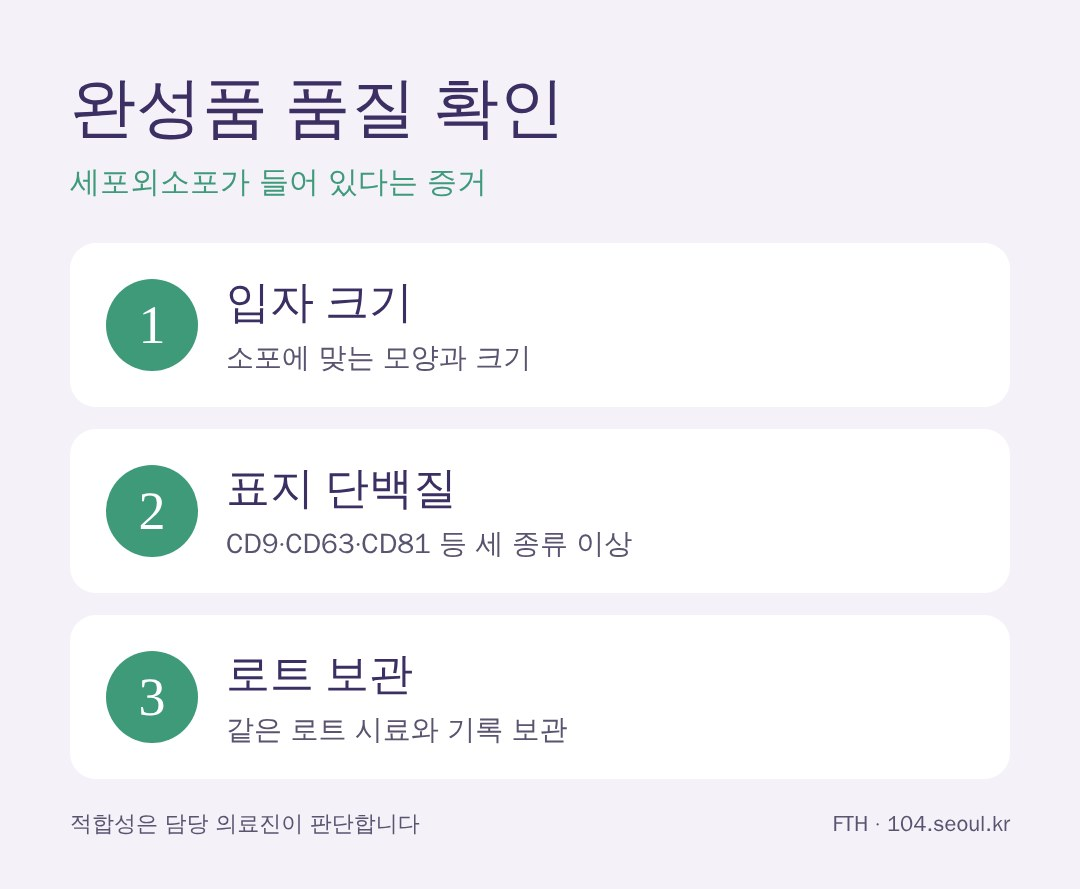
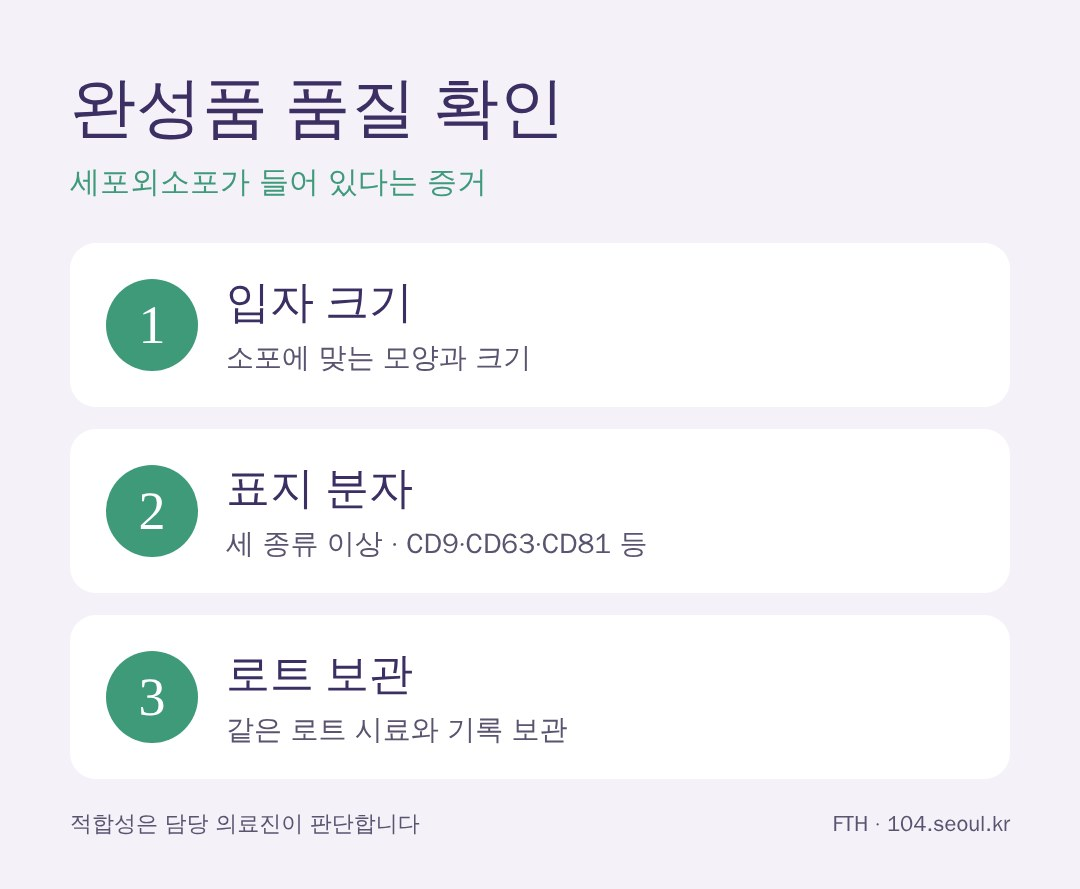
s104 2026-11-26-am 검수 지적 반영(사실 표현 2곳·FAQ·그림 문구)
Claude-Session: https://claude.ai/code/session_01X1V3gKXKoWFiSLxrLdFYPN

Changed region(s): [[0.2139, 0.5163, 0.6111, 0.6378]]

diff --git a/posts/2026-11-26-am/styled.html b/posts/2026-11-26-am/styled.html
@@ -6,13 +6,13 @@
 
 <p style="margin:22px 0 30px;padding:20px 22px;background:#f1f7f6;border-left:5px solid #2a8c82;border-radius:14px;font-size:17.5px;line-height:1.8"><b style="color:#1d3b53">줄기세포 상청액 품질 관리</b>는 줄기세포를 키운 뒤 세포를 걷어 낸 액체에 무엇이 들어 있고, 섞이면 안 되는 것이 없는지를 원료부터 완성품까지 확인하는 일입니다. 일본 후생노동성은 2024년 7월 31일 안내문에서 상청액이나 엑소좀 등을 주성분으로 효과와 안전성이 확인되어 승인을 받은 의약품은 해외를 포함해 아직 없다고 밝히고, 일본재생의료학회가 2024년 4월 30일 낸 지침을 참고해 품질과 위험을 관리하라고 당부했습니다. 이 지침이 꼽은 확인 항목을 쉬운 말로 정리했습니다.</p>
 <ul>
-<li>법의 자리: 세포가 없는 것이 분명한 상청액은 일본 재생의료법 대상이 아님</li>
+<li>법 적용: 세포가 없는 것이 분명한 상청액은 일본 재생의료법 대상이 아님</li>
 <li>제조 관리: 무균 작업, 동물 유래 성분을 뺀 배지, 같은 로트 보관</li>
 <li>완성품 확인: 소포 입자의 크기와 표지 단백질(CD9·CD63·CD81 등)</li>
 </ul>
 
 <h2 style="margin:46px 0 16px;padding:0 0 10px 14px;border-left:6px solid #2a8c82;border-bottom:1px solid #e3eaee;font-size:22px;line-height:1.45;font-weight:700;color:#1d3b53">줄기세포 상청액은 어떻게 만들어지나요?</h2>
-<p style="margin:0 0 18px">줄기세포를 배양 용기에서 키우면 세포는 단백질과 작은 주머니 모양의 세포외소포를 바깥으로 내보냅니다. 세포를 걷어 내고 남은 이 액체가 상청액이고, 세포외소포 가운데 하나가 엑소좀입니다. 일본재생의료학회 지침은 세포외소포에 조직 재생을 돕는 성장 인자와 세포 사이의 신호 물질이 들어 있다고 설명하며, 이 분야를 앞으로 쓰임이 넓어질 수 있는 발전 가능성이 큰 분야로 봅니다. 다만 살아 있는 세포에서 나온 물질이라 키우는 조건에 따라 내용물이 쉽게 달라지므로, 만드는 과정 자체를 꼼꼼히 관리해야 한다고 강조합니다.</p>
+<p style="margin:0 0 18px">줄기세포를 배양 용기에서 키우면 세포는 단백질과 작은 주머니 모양의 세포외소포를 바깥으로 내보냅니다. 세포를 걷어 내고 남은 이 액체가 상청액이고, 세포외소포 가운데 하나가 엑소좀입니다. 일본재생의료학회 지침은 세포외소포에 조직 재생을 돕는 성장 인자와 세포 사이의 신호 물질이 들어 있다고 설명하며, 앞으로 쓰임이 넓어질 수 있어 발전이 기대된다고 봅니다. 다만 살아 있는 세포에서 나온 물질이라 키우는 조건에 따라 내용물이 쉽게 달라지므로, 만드는 과정 자체를 꼼꼼히 관리해야 한다고 강조합니다.</p>
 
 <img src="https://raw.githubusercontent.com/daegakim/blog.104.seoul.kr/main/images/s104-2026-11-26-am-info.jpg" alt="줄기세포 상청액이 만들어지는 순서 그림: 세포 배양, 세포가 단백질과 세포외소포를 내보냄, 세포를 걷어 낸 액체가 상청액" style="display:block;width:100%;max-width:100%;height:auto;margin:26px auto;border-radius:18px;box-shadow:0 6px 20px rgba(30,50,70,.10)">
 
@@ -31,22 +31,22 @@
 <img src="https://raw.githubusercontent.com/daegakim/blog.104.seoul.kr/main/images/s104-2026-11-26-am-info2.jpg" alt="일본 재생의료법과 상청액 그림: 세포가 없는 것이 분명하면 대상 아님, 2025년 5월 31일 개정법 시행 뒤 2년을 목표로 적용 방식 검토" style="display:block;width:100%;max-width:100%;height:auto;margin:26px auto;border-radius:18px;box-shadow:0 6px 20px rgba(30,50,70,.10)">
 
 <h2 style="margin:46px 0 16px;padding:0 0 10px 14px;border-left:6px solid #2a8c82;border-bottom:1px solid #e3eaee;font-size:22px;line-height:1.45;font-weight:700;color:#1d3b53">제조 과정에서는 어떤 위험을 관리하나요?</h2>
-<p style="margin:0 0 18px">학회 지침은 제조 단계의 위험으로 원료에서 들어오는 바이러스·세균·곰팡이, 알레르기를 일으킬 수 있는 다른 물질, 공정 자재에서 나온 미세 입자, 제조 묶음(배치)마다 달라지는 품질, 보관 중 품질 저하, 자기 세포 제품끼리 뒤바뀌는 사고를 꼽았습니다. 상청액은 완성 뒤에 바이러스를 없애거나 깊이 정제하기 어려워서 원료 단계부터 무균 작업과 섞임 방지를 이어 가야 합니다. 배지는 동물 유래 성분이 없는 것을 쓰라고 권하는데, 소 태아 혈청을 넣으면 소에서 나온 소포가 섞여 뜻하지 않은 작용을 할 수 있기 때문입니다. 제조와 품질 관리는 재생의료 제공 기준이나 재생의료 제품의 제조 기준에 준해서 하라고 적었습니다.</p>
+<p style="margin:0 0 18px">학회 지침은 제조 단계의 위험으로 원료에서 들어오는 바이러스·세균·곰팡이, 알레르기나 거부 반응을 일으킬 수 있는 다른 물질, 공정 자재에서 나온 미세 입자, 제조 묶음(배치)마다 달라지는 품질, 보관 중 품질 저하, 자기 세포 제품끼리 섞이거나 뒤바뀌는 사고를 꼽았습니다. 상청액은 제조 과정에서 고도로 정제하거나 바이러스를 없애기 어려워서 원료 단계부터 무균 작업과 섞임 방지를 이어 가야 합니다. 배지는 동물 유래 성분이 없는 것을 쓰라고 권하는데, 소 태아 혈청을 넣으면 소에서 나온 소포가 섞여 뜻하지 않은 작용을 할 수 있기 때문입니다. 제조와 품질 관리는 재생의료 제공 기준이나 재생의료 제품의 품질·제조 관리 기준에 준해서 하라고 적었습니다.</p>
 
 <img src="https://raw.githubusercontent.com/daegakim/blog.104.seoul.kr/main/images/s104-2026-11-26-am-info3.jpg" alt="상청액 제조 단계 위험 관리 그림: 무균 작업, 동물 유래 성분 없는 배지, 배치마다 품질 확인, 보관 중 품질 저하 방지" style="display:block;width:100%;max-width:100%;height:auto;margin:26px auto;border-radius:18px;box-shadow:0 6px 20px rgba(30,50,70,.10)">
 
 <h2 style="margin:46px 0 16px;padding:0 0 10px 14px;border-left:6px solid #2a8c82;border-bottom:1px solid #e3eaee;font-size:22px;line-height:1.45;font-weight:700;color:#1d3b53">완성된 상청액은 무엇으로 품질을 확인하나요?</h2>
 <p style="margin:0 0 18px">세포외소포가 실제로 들어 있다는 증거 두 가지가 기본입니다. 하나는 소포에 맞는 모양과 크기의 입자가 있다는 것이고, 다른 하나는 소포 표지 단백질이 있다는 것입니다. 지침은 표지 단백질로 CD9·CD63·CD81 같은 테트라스파닌을 예로 들고, 국제세포외소포학회(ISEV)의 권고에 따라 소포 관련 분자를 적어도 세 종류 확인하라고 소개합니다. 또 문제가 생겼을 때 원인을 찾을 수 있도록 실제 투여한 것과 같은 로트의 시료와 제조·투여 기록을 보관하라고 권합니다.</p>
 
-<img src="https://raw.githubusercontent.com/daegakim/blog.104.seoul.kr/main/images/s104-2026-11-26-am-info4.jpg" alt="완성된 상청액 품질 확인 그림: 소포 입자 크기 확인, 표지 단백질 CD9·CD63·CD81 등 세 종류 이상, 같은 로트 시료와 기록 보관" style="display:block;width:100%;max-width:100%;height:auto;margin:26px auto;border-radius:18px;box-shadow:0 6px 20px rgba(30,50,70,.10)">
+<img src="https://raw.githubusercontent.com/daegakim/blog.104.seoul.kr/main/images/s104-2026-11-26-am-info4.jpg" alt="완성된 상청액 품질 확인 그림: 소포 입자 크기 확인, 표지 분자 세 종류 이상(CD9·CD63·CD81 등), 같은 로트 시료와 기록 보관" style="display:block;width:100%;max-width:100%;height:auto;margin:26px auto;border-radius:18px;box-shadow:0 6px 20px rgba(30,50,70,.10)">
 
 <h2 style="margin:46px 0 16px;padding:0 0 10px 14px;border-left:6px solid #2a8c82;border-bottom:1px solid #e3eaee;font-size:22px;line-height:1.45;font-weight:700;color:#1d3b53">상청액 치료를 알아볼 때 무엇을 물어보면 좋을까요?</h2>
-<p style="margin:0 0 18px">어떤 세포에서 얻었는지, 배지에 동물 유래 성분이 들어가는지, 무균 검사와 소포 확인을 했는지, 같은 로트 시료를 보관하는지 물어보세요. 승인 의약품이 아니라는 점도 설명 문서에서 함께 확인하면 정보를 정확히 비교할 수 있습니다. 내 상태에 맞는지는 담당 의료진이 판단합니다.</p>
+<p style="margin:0 0 18px">어떤 세포에서 얻었는지, 배지에 동물 유래 성분이 들어가는지, 무균 검사와 소포 확인을 했는지, 같은 로트 시료를 보관하는지 물어보세요. 승인 의약품이 아니라는 점이 설명 문서에 적혀 있는지도 확인하세요. 내 상태에 맞는지는 담당 의료진이 판단합니다.</p>
 
 <h2 style="margin:46px 0 16px;padding:0 0 10px 14px;border-left:6px solid #2a8c82;border-bottom:1px solid #e3eaee;font-size:22px;line-height:1.45;font-weight:700;color:#1d3b53">자주 묻는 질문</h2>
-<div style="margin:14px 0;padding:18px 20px;background:#fff8ec;border:1px solid #f0e2c6;border-radius:14px"><p style="margin:0 0 8px;font-size:17.5px;font-weight:700;color:#1d3b53"><span style="color:#e0703e">Q.</span> 줄기세포 상청액과 엑소좀은 같은 것인가요?</p><p style="margin:0;font-size:16.5px">같지 않습니다. 상청액은 세포를 걷어 낸 배양액 전체이고, 엑소좀은 그 안에 들어 있을 수 있는 작은 소포의 한 종류입니다.</p></div>
+<div style="margin:14px 0;padding:18px 20px;background:#fff8ec;border:1px solid #f0e2c6;border-radius:14px"><p style="margin:0 0 8px;font-size:17.5px;font-weight:700;color:#1d3b53"><span style="color:#e0703e">Q.</span> 배지에 동물 성분이 들어가면 왜 문제가 되나요?</p><p style="margin:0;font-size:16.5px">소 태아 혈청 같은 동물 유래 성분에는 바이러스가 섞일 가능성이 있고, 소에서 나온 소포가 상청액에 함께 들어가 뜻하지 않은 작용을 할 수 있습니다. 그래서 학회 지침은 동물 유래 성분이 없는 배지를 쓰라고 권합니다.</p></div>
 <div style="margin:14px 0;padding:18px 20px;background:#fff8ec;border:1px solid #f0e2c6;border-radius:14px"><p style="margin:0 0 8px;font-size:17.5px;font-weight:700;color:#1d3b53"><span style="color:#e0703e">Q.</span> 일본에서 상청액 치료는 위원회 심사를 받나요?</p><p style="margin:0;font-size:16.5px">세포가 들어 있지 않은 것이 분명하면 재생의료법 대상이 아니어서 위원회 심사 절차가 없습니다. 그만큼 제공하는 쪽이 스스로 품질을 관리해야 한다는 것이 학회 지침의 취지입니다.</p></div>
-<div style="margin:14px 0;padding:18px 20px;background:#fff8ec;border:1px solid #f0e2c6;border-radius:14px"><p style="margin:0 0 8px;font-size:17.5px;font-weight:700;color:#1d3b53"><span style="color:#e0703e">Q.</span> 상청액으로 승인받은 의약품이 있나요?</p><p style="margin:0;font-size:16.5px">후생노동성의 2024년 7월 31일 안내에 따르면, 해외를 포함해 효과와 안전성이 확인되어 승인받은 의약품은 아직 없습니다. 학회 지침은 임상시험을 목표로 한 연구가 늘고 있다고 적었습니다.</p></div>
+<div style="margin:14px 0;padding:18px 20px;background:#fff8ec;border:1px solid #f0e2c6;border-radius:14px"><p style="margin:0 0 8px;font-size:17.5px;font-weight:700;color:#1d3b53"><span style="color:#e0703e">Q.</span> 상청액으로 승인받은 의약품이 있나요?</p><p style="margin:0;font-size:16.5px">후생노동성의 2024년 7월 31일 안내에 따르면, 해외를 포함해 효과와 안전성이 확인되어 승인받은 의약품은 아직 없습니다. 학회 지침은 3년 전보다 구체적으로 임상시험을 하려는 방향으로 나아가고 있다고 적었습니다.</p></div>
 
 <h2 style="margin:46px 0 16px;padding:0 0 10px 14px;border-left:6px solid #2a8c82;border-bottom:1px solid #e3eaee;font-size:22px;line-height:1.45;font-weight:700;color:#1d3b53">출처</h2><ul style="margin:0;padding:18px 20px 18px 38px;background:#f7f9fa;border-radius:14px;font-size:14.5px;line-height:1.75;color:#55606a">
 <li style="margin:0 0 6px">일본 후생노동성 의정국 — 줄기세포 배양 상청액 및 엑소좀 등을 쓰는 의료에 관한 안내(2024년 7월 31일) <a href="https://www.mhlw.go.jp/content/001281987.pdf" style="color:#2a8c82;text-decoration:underline">mhlw.go.jp</a></li>

diff --git a/posts/2026-11-26-am/post.html b/posts/2026-11-26-am/post.html
@@ -5,13 +5,13 @@
 
 <p class="lead"><b>줄기세포 상청액 품질 관리</b>는 줄기세포를 키운 뒤 세포를 걷어 낸 액체에 무엇이 들어 있고, 섞이면 안 되는 것이 없는지를 원료부터 완성품까지 확인하는 일입니다. 일본 후생노동성은 2024년 7월 31일 안내문에서 상청액이나 엑소좀 등을 주성분으로 효과와 안전성이 확인되어 승인을 받은 의약품은 해외를 포함해 아직 없다고 밝히고, 일본재생의료학회가 2024년 4월 30일 낸 지침을 참고해 품질과 위험을 관리하라고 당부했습니다. 이 지침이 꼽은 확인 항목을 쉬운 말로 정리했습니다.</p>
 <ul>
-<li>법의 자리: 세포가 없는 것이 분명한 상청액은 일본 재생의료법 대상이 아님</li>
+<li>법 적용: 세포가 없는 것이 분명한 상청액은 일본 재생의료법 대상이 아님</li>
 <li>제조 관리: 무균 작업, 동물 유래 성분을 뺀 배지, 같은 로트 보관</li>
 <li>완성품 확인: 소포 입자의 크기와 표지 단백질(CD9·CD63·CD81 등)</li>
 </ul>
 
 <h2>줄기세포 상청액은 어떻게 만들어지나요?</h2>
-<p>줄기세포를 배양 용기에서 키우면 세포는 단백질과 작은 주머니 모양의 세포외소포를 바깥으로 내보냅니다. 세포를 걷어 내고 남은 이 액체가 상청액이고, 세포외소포 가운데 하나가 엑소좀입니다. 일본재생의료학회 지침은 세포외소포에 조직 재생을 돕는 성장 인자와 세포 사이의 신호 물질이 들어 있다고 설명하며, 이 분야를 앞으로 쓰임이 넓어질 수 있는 발전 가능성이 큰 분야로 봅니다. 다만 살아 있는 세포에서 나온 물질이라 키우는 조건에 따라 내용물이 쉽게 달라지므로, 만드는 과정 자체를 꼼꼼히 관리해야 한다고 강조합니다.</p>
+<p>줄기세포를 배양 용기에서 키우면 세포는 단백질과 작은 주머니 모양의 세포외소포를 바깥으로 내보냅니다. 세포를 걷어 내고 남은 이 액체가 상청액이고, 세포외소포 가운데 하나가 엑소좀입니다. 일본재생의료학회 지침은 세포외소포에 조직 재생을 돕는 성장 인자와 세포 사이의 신호 물질이 들어 있다고 설명하며, 앞으로 쓰임이 넓어질 수 있어 발전이 기대된다고 봅니다. 다만 살아 있는 세포에서 나온 물질이라 키우는 조건에 따라 내용물이 쉽게 달라지므로, 만드는 과정 자체를 꼼꼼히 관리해야 한다고 강조합니다.</p>
 
 <p><img src="https://raw.githubusercontent.com/daegakim/blog.104.seoul.kr/main/images/s104-2026-11-26-am-info.jpg" alt="줄기세포 상청액이 만들어지는 순서 그림: 세포 배양, 세포가 단백질과 세포외소포를 내보냄, 세포를 걷어 낸 액체가 상청액" width="1080" /></p>
 
@@ -30,25 +30,25 @@
 <p><img src="https://raw.githubusercontent.com/daegakim/blog.104.seoul.kr/main/images/s104-2026-11-26-am-info2.jpg" alt="일본 재생의료법과 상청액 그림: 세포가 없는 것이 분명하면 대상 아님, 2025년 5월 31일 개정법 시행 뒤 2년을 목표로 적용 방식 검토" width="1080" /></p>
 
 <h2>제조 과정에서는 어떤 위험을 관리하나요?</h2>
-<p>학회 지침은 제조 단계의 위험으로 원료에서 들어오는 바이러스·세균·곰팡이, 알레르기를 일으킬 수 있는 다른 물질, 공정 자재에서 나온 미세 입자, 제조 묶음(배치)마다 달라지는 품질, 보관 중 품질 저하, 자기 세포 제품끼리 뒤바뀌는 사고를 꼽았습니다. 상청액은 완성 뒤에 바이러스를 없애거나 깊이 정제하기 어려워서 원료 단계부터 무균 작업과 섞임 방지를 이어 가야 합니다. 배지는 동물 유래 성분이 없는 것을 쓰라고 권하는데, 소 태아 혈청을 넣으면 소에서 나온 소포가 섞여 뜻하지 않은 작용을 할 수 있기 때문입니다. 제조와 품질 관리는 재생의료 제공 기준이나 재생의료 제품의 제조 기준에 준해서 하라고 적었습니다.</p>
+<p>학회 지침은 제조 단계의 위험으로 원료에서 들어오는 바이러스·세균·곰팡이, 알레르기나 거부 반응을 일으킬 수 있는 다른 물질, 공정 자재에서 나온 미세 입자, 제조 묶음(배치)마다 달라지는 품질, 보관 중 품질 저하, 자기 세포 제품끼리 섞이거나 뒤바뀌는 사고를 꼽았습니다. 상청액은 제조 과정에서 고도로 정제하거나 바이러스를 없애기 어려워서 원료 단계부터 무균 작업과 섞임 방지를 이어 가야 합니다. 배지는 동물 유래 성분이 없는 것을 쓰라고 권하는데, 소 태아 혈청을 넣으면 소에서 나온 소포가 섞여 뜻하지 않은 작용을 할 수 있기 때문입니다. 제조와 품질 관리는 재생의료 제공 기준이나 재생의료 제품의 품질·제조 관리 기준에 준해서 하라고 적었습니다.</p>
 
 <p><img src="https://raw.githubusercontent.com/daegakim/blog.104.seoul.kr/main/images/s104-2026-11-26-am-info3.jpg" alt="상청액 제조 단계 위험 관리 그림: 무균 작업, 동물 유래 성분 없는 배지, 배치마다 품질 확인, 보관 중 품질 저하 방지" width="1080" /></p>
 
 <h2>완성된 상청액은 무엇으로 품질을 확인하나요?</h2>
 <p>세포외소포가 실제로 들어 있다는 증거 두 가지가 기본입니다. 하나는 소포에 맞는 모양과 크기의 입자가 있다는 것이고, 다른 하나는 소포 표지 단백질이 있다는 것입니다. 지침은 표지 단백질로 CD9·CD63·CD81 같은 테트라스파닌을 예로 들고, 국제세포외소포학회(ISEV)의 권고에 따라 소포 관련 분자를 적어도 세 종류 확인하라고 소개합니다. 또 문제가 생겼을 때 원인을 찾을 수 있도록 실제 투여한 것과 같은 로트의 시료와 제조·투여 기록을 보관하라고 권합니다.</p>
 
-<p><img src="https://raw.githubusercontent.com/daegakim/blog.104.seoul.kr/main/images/s104-2026-11-26-am-info4.jpg" alt="완성된 상청액 품질 확인 그림: 소포 입자 크기 확인, 표지 단백질 CD9·CD63·CD81 등 세 종류 이상, 같은 로트 시료와 기록 보관" width="1080" /></p>
+<p><img src="https://raw.githubusercontent.com/daegakim/blog.104.seoul.kr/main/images/s104-2026-11-26-am-info4.jpg" alt="완성된 상청액 품질 확인 그림: 소포 입자 크기 확인, 표지 분자 세 종류 이상(CD9·CD63·CD81 등), 같은 로트 시료와 기록 보관" width="1080" /></p>
 
 <h2>상청액 치료를 알아볼 때 무엇을 물어보면 좋을까요?</h2>
-<p>어떤 세포에서 얻었는지, 배지에 동물 유래 성분이 들어가는지, 무균 검사와 소포 확인을 했는지, 같은 로트 시료를 보관하는지 물어보세요. 승인 의약품이 아니라는 점도 설명 문서에서 함께 확인하면 정보를 정확히 비교할 수 있습니다. 내 상태에 맞는지는 담당 의료진이 판단합니다.</p>
+<p>어떤 세포에서 얻었는지, 배지에 동물 유래 성분이 들어가는지, 무균 검사와 소포 확인을 했는지, 같은 로트 시료를 보관하는지 물어보세요. 승인 의약품이 아니라는 점이 설명 문서에 적혀 있는지도 확인하세요. 내 상태에 맞는지는 담당 의료진이 판단합니다.</p>
 
 <h2>자주 묻는 질문</h2>
-<h3>줄기세포 상청액과 엑소좀은 같은 것인가요?</h3>
-<p>같지 않습니다. 상청액은 세포를 걷어 낸 배양액 전체이고, 엑소좀은 그 안에 들어 있을 수 있는 작은 소포의 한 종류입니다.</p>
+<h3>배지에 동물 성분이 들어가면 왜 문제가 되나요?</h3>
+<p>소 태아 혈청 같은 동물 유래 성분에는 바이러스가 섞일 가능성이 있고, 소에서 나온 소포가 상청액에 함께 들어가 뜻하지 않은 작용을 할 수 있습니다. 그래서 학회 지침은 동물 유래 성분이 없는 배지를 쓰라고 권합니다.</p>
 <h3>일본에서 상청액 치료는 위원회 심사를 받나요?</h3>
 <p>세포가 들어 있지 않은 것이 분명하면 재생의료법 대상이 아니어서 위원회 심사 절차가 없습니다. 그만큼 제공하는 쪽이 스스로 품질을 관리해야 한다는 것이 학회 지침의 취지입니다.</p>
 <h3>상청액으로 승인받은 의약품이 있나요?</h3>
-<p>후생노동성의 2024년 7월 31일 안내에 따르면, 해외를 포함해 효과와 안전성이 확인되어 승인받은 의약품은 아직 없습니다. 학회 지침은 임상시험을 목표로 한 연구가 늘고 있다고 적었습니다.</p>
+<p>후생노동성의 2024년 7월 31일 안내에 따르면, 해외를 포함해 효과와 안전성이 확인되어 승인받은 의약품은 아직 없습니다. 학회 지침은 3년 전보다 구체적으로 임상시험을 하려는 방향으로 나아가고 있다고 적었습니다.</p>
 
 <h2>출처</h2>
 <ul>
